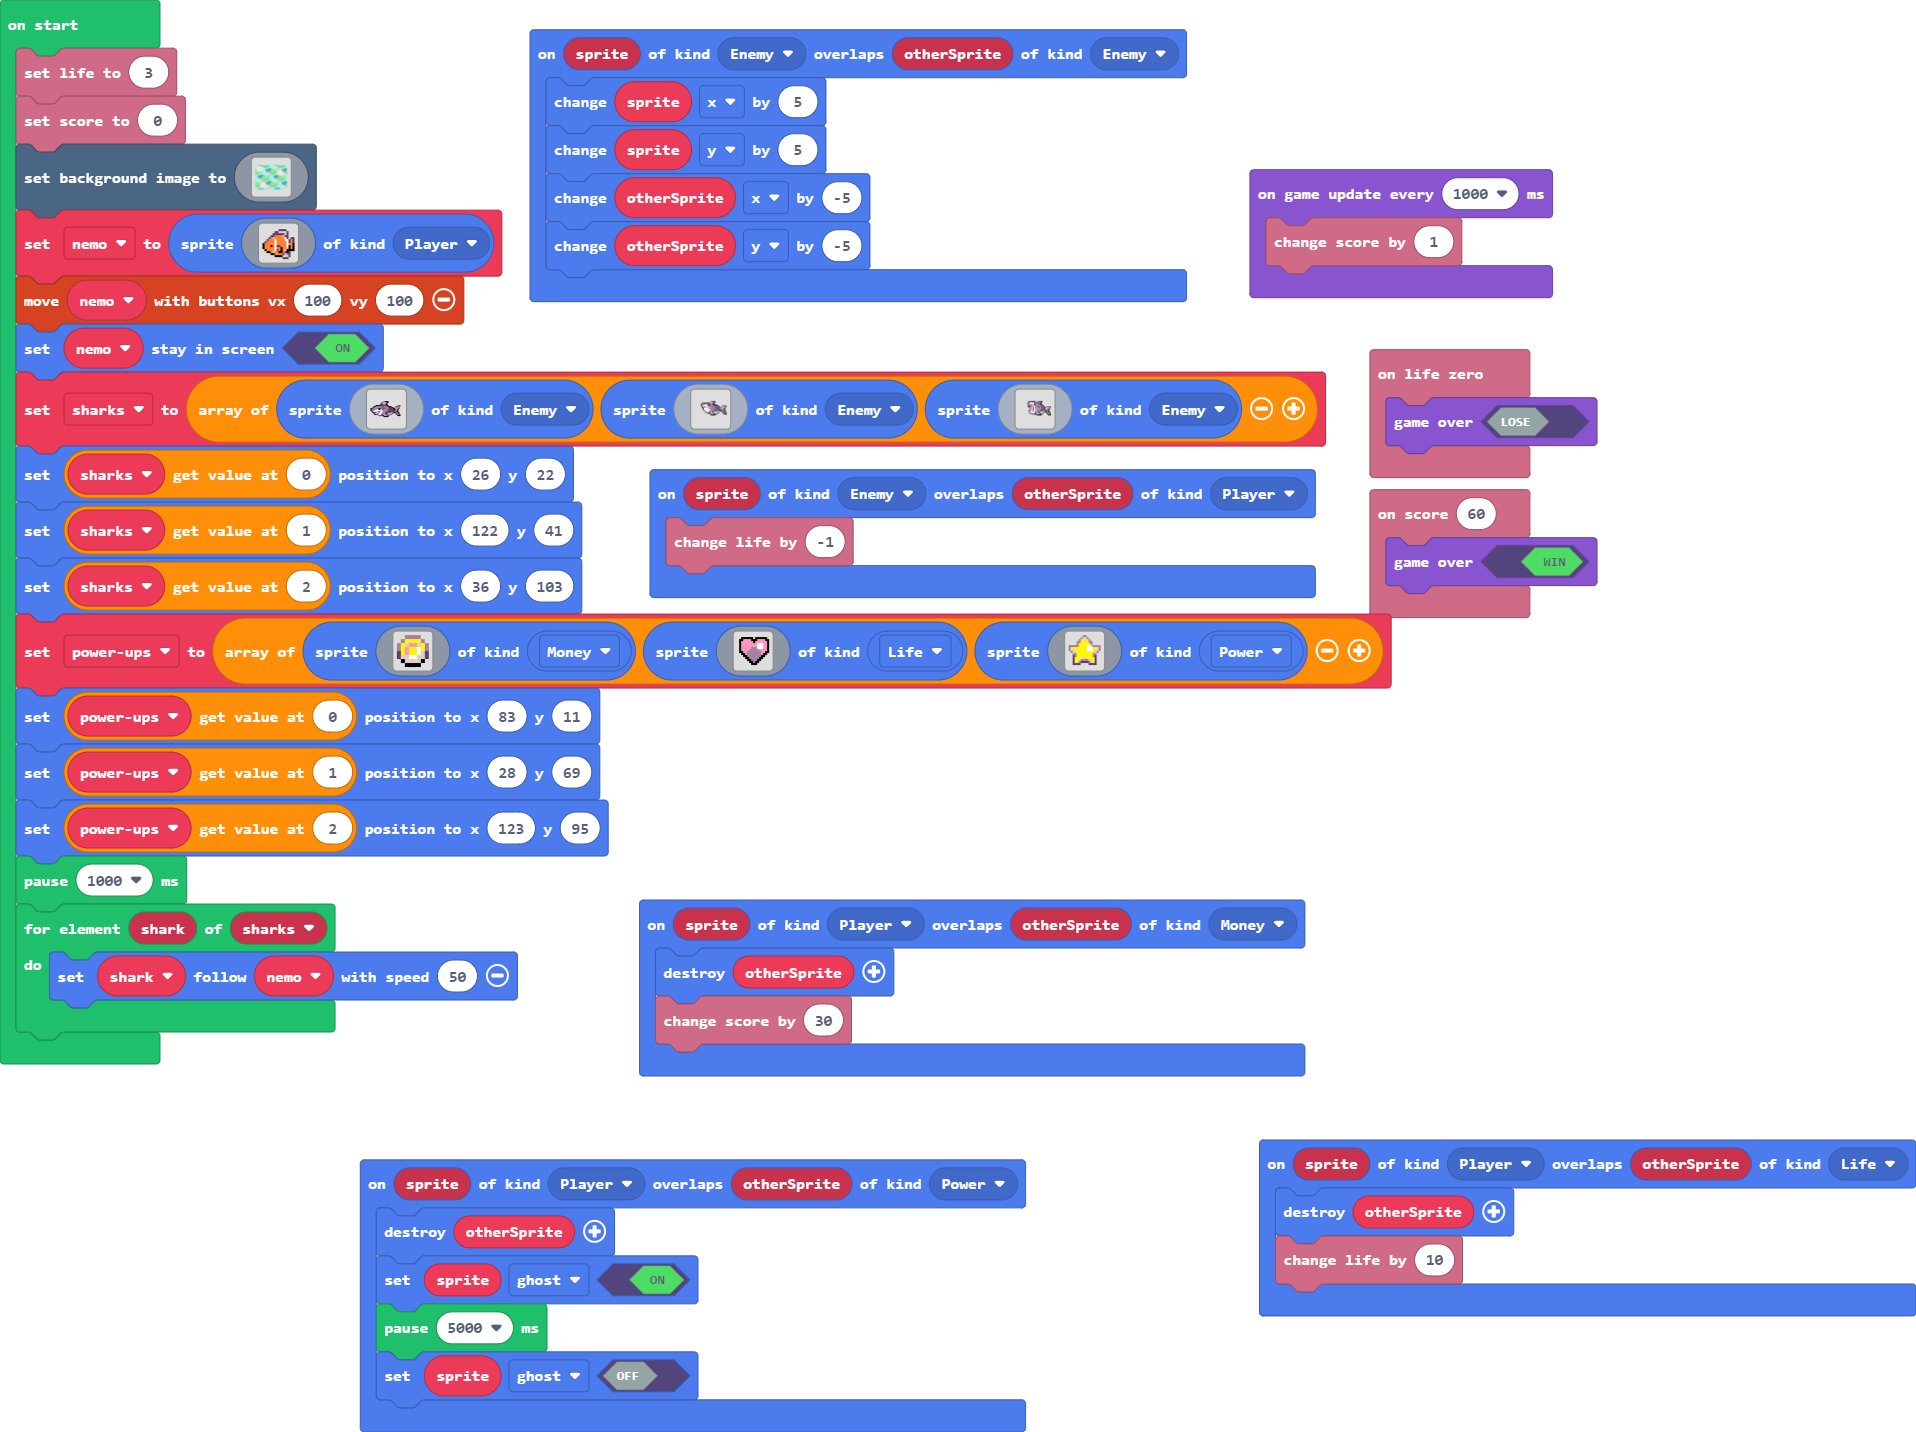
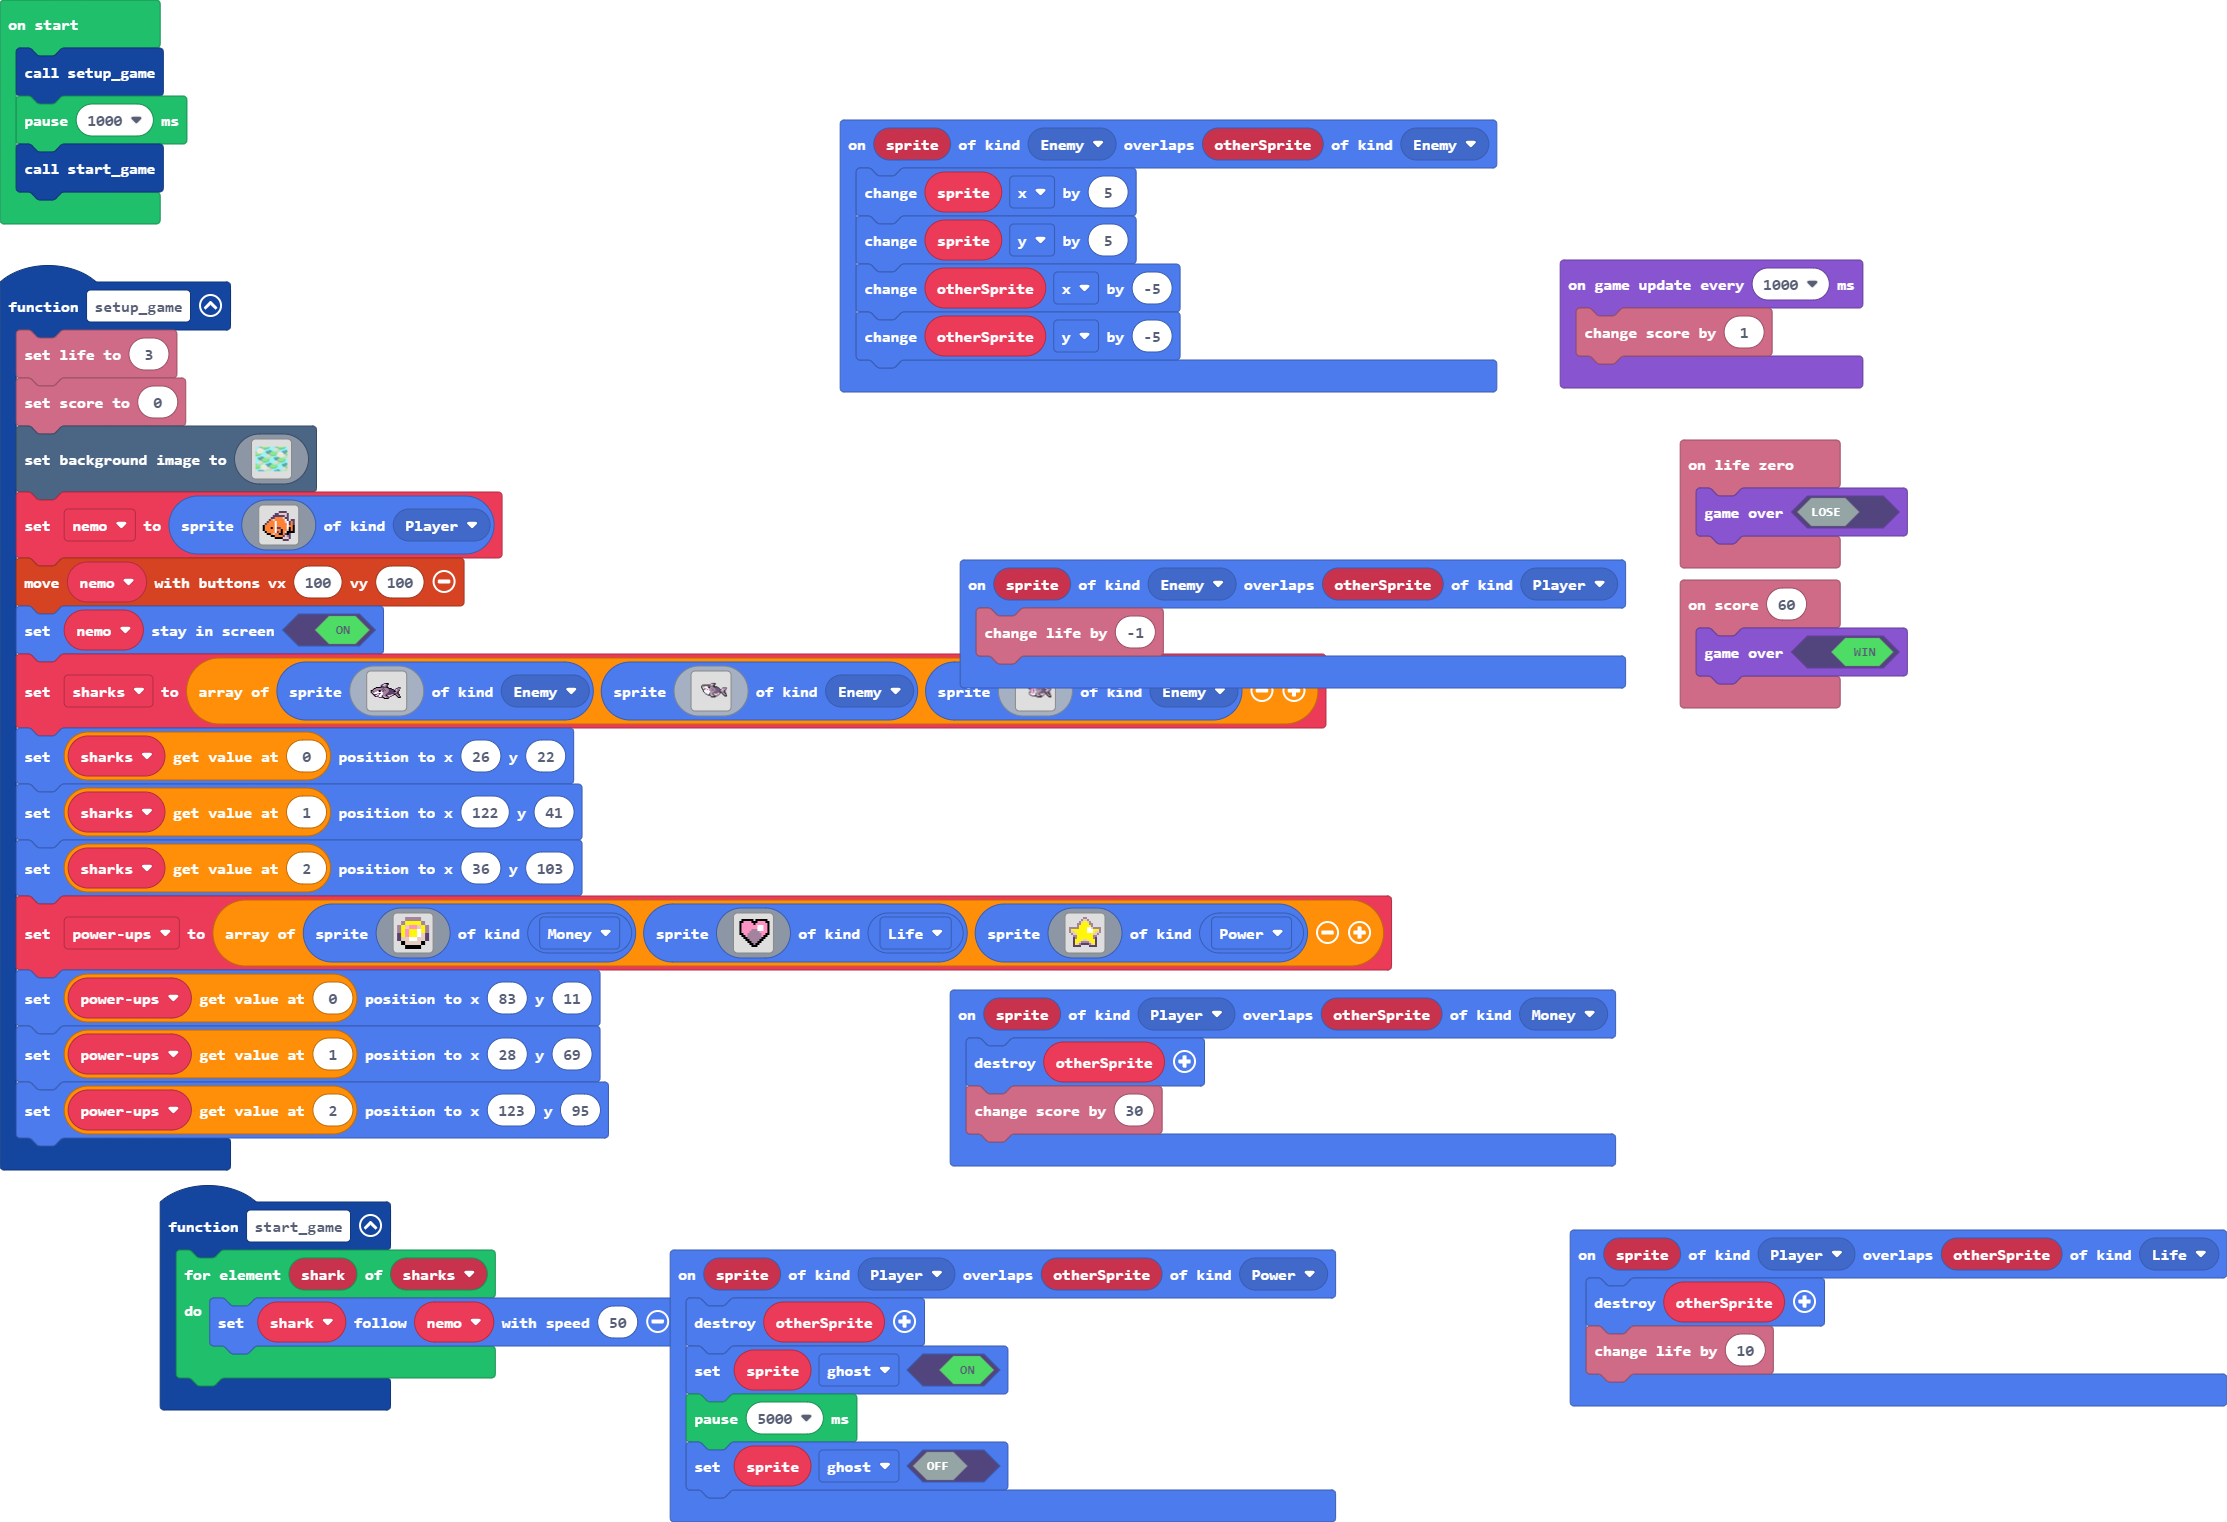
Added functions

diff --git a/main.ts b/main.ts
@@ -16,6 +16,11 @@ sprites.onOverlap(SpriteKind.Enemy, SpriteKind.Enemy, function (sprite, otherSpr
     otherSprite.x += -5
     otherSprite.y += -5
 })
+function start_game () {
+    for (let shark of sharks) {
+        shark.follow(nemo, 50)
+    }
+}
 sprites.onOverlap(SpriteKind.Enemy, SpriteKind.Player, function (sprite, otherSprite) {
     info.changeLifeBy(-1)
 })
@@ -32,24 +37,28 @@ sprites.onOverlap(SpriteKind.Player, SpriteKind.Power, function (sprite, otherSp
     pause(5000)
     sprite.setFlag(SpriteFlag.Ghost, false)
 })
-info.setLife(3)
-info.setScore(0)
-scene.setBackgroundImage(assets.image`pond`)
-let nemo = sprites.create(assets.image`nemo`, SpriteKind.Player)
-controller.moveSprite(nemo, 100, 100)
-nemo.setStayInScreen(true)
-let sharks = [sprites.create(assets.image`shark1`, SpriteKind.Enemy), sprites.create(assets.image`shark2`, SpriteKind.Enemy), sprites.create(assets.image`shark3`, SpriteKind.Enemy)]
-sharks[0].setPosition(26, 22)
-sharks[1].setPosition(122, 41)
-sharks[2].setPosition(36, 103)
-let powerups = [sprites.create(assets.image`coin`, SpriteKind.Money), sprites.create(assets.image`heart`, SpriteKind.Life), sprites.create(assets.image`star`, SpriteKind.Power)]
-powerups[0].setPosition(83, 11)
-powerups[1].setPosition(28, 69)
-powerups[2].setPosition(123, 95)
-pause(1000)
-for (let shark of sharks) {
-    shark.follow(nemo, 50)
+function setup_game () {
+    info.setLife(3)
+    info.setScore(0)
+    scene.setBackgroundImage(assets.image`pond`)
+    nemo = sprites.create(assets.image`nemo`, SpriteKind.Player)
+    controller.moveSprite(nemo, 100, 100)
+    nemo.setStayInScreen(true)
+    sharks = [sprites.create(assets.image`shark1`, SpriteKind.Enemy), sprites.create(assets.image`shark2`, SpriteKind.Enemy), sprites.create(assets.image`shark3`, SpriteKind.Enemy)]
+    sharks[0].setPosition(26, 22)
+    sharks[1].setPosition(122, 41)
+    sharks[2].setPosition(36, 103)
+    powerups = [sprites.create(assets.image`coin`, SpriteKind.Money), sprites.create(assets.image`heart`, SpriteKind.Life), sprites.create(assets.image`star`, SpriteKind.Power)]
+    powerups[0].setPosition(83, 11)
+    powerups[1].setPosition(28, 69)
+    powerups[2].setPosition(123, 95)
 }
+let powerups: Sprite[] = []
+let nemo: Sprite = null
+let sharks: Sprite[] = []
+setup_game()
+pause(1000)
+start_game()
 game.onUpdateInterval(1000, function () {
     info.changeScoreBy(1)
 })
